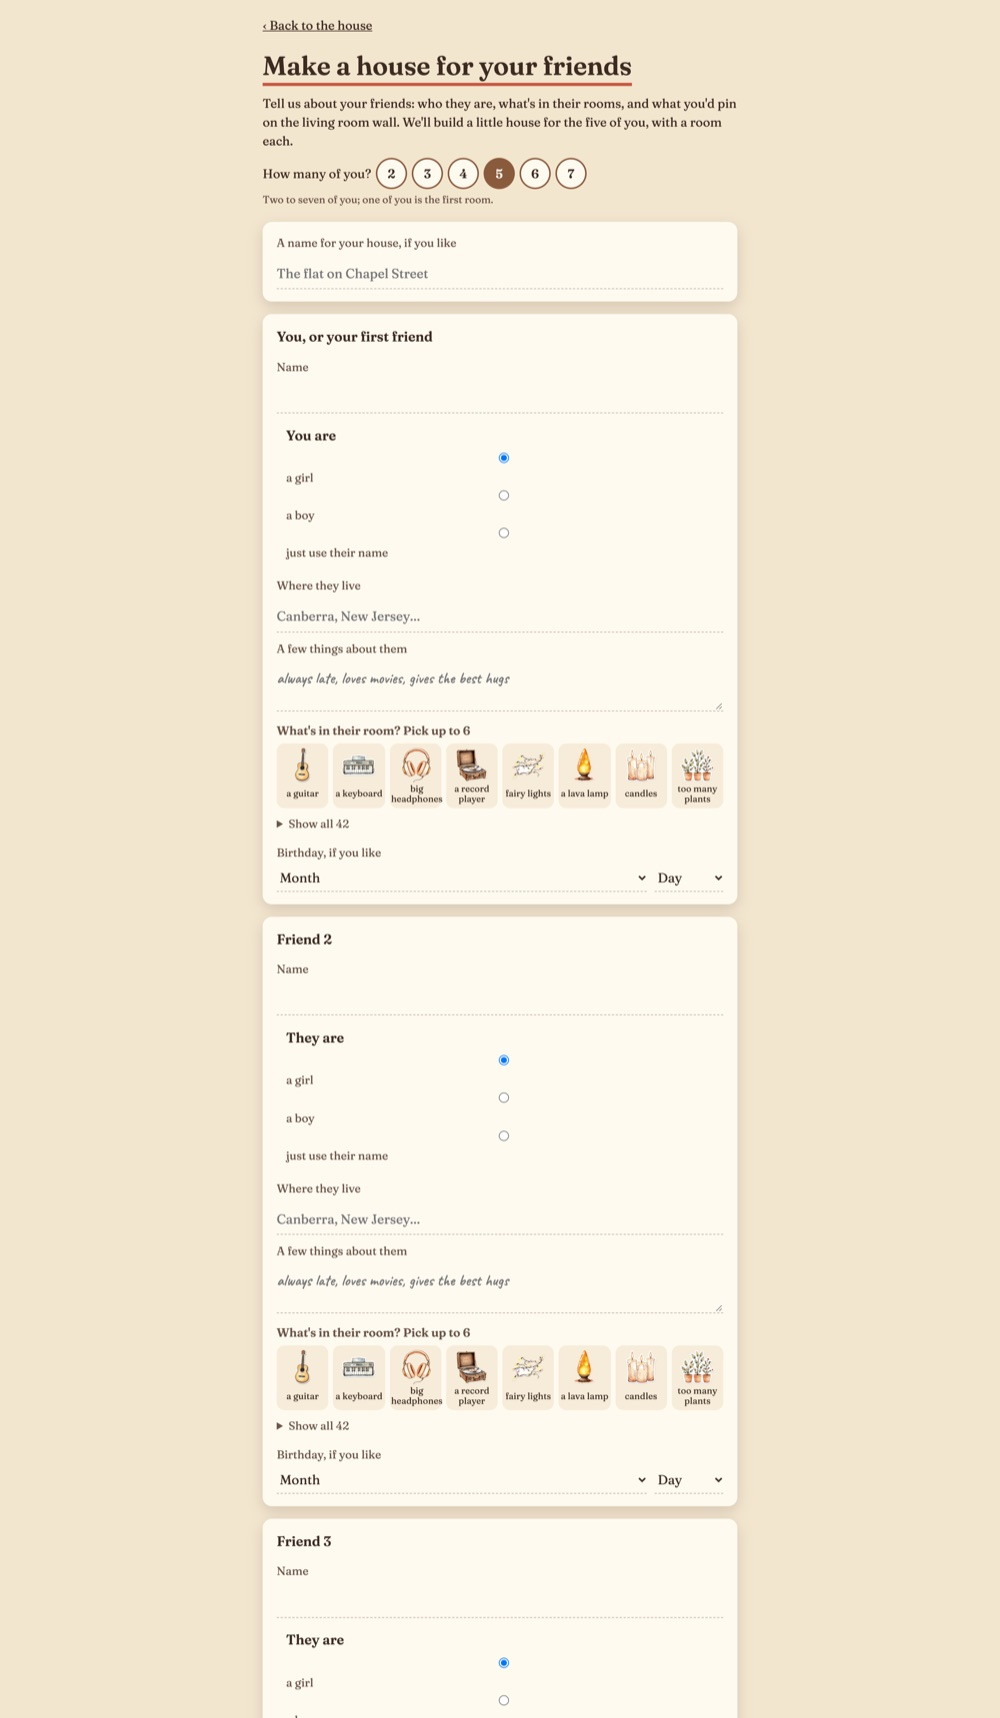
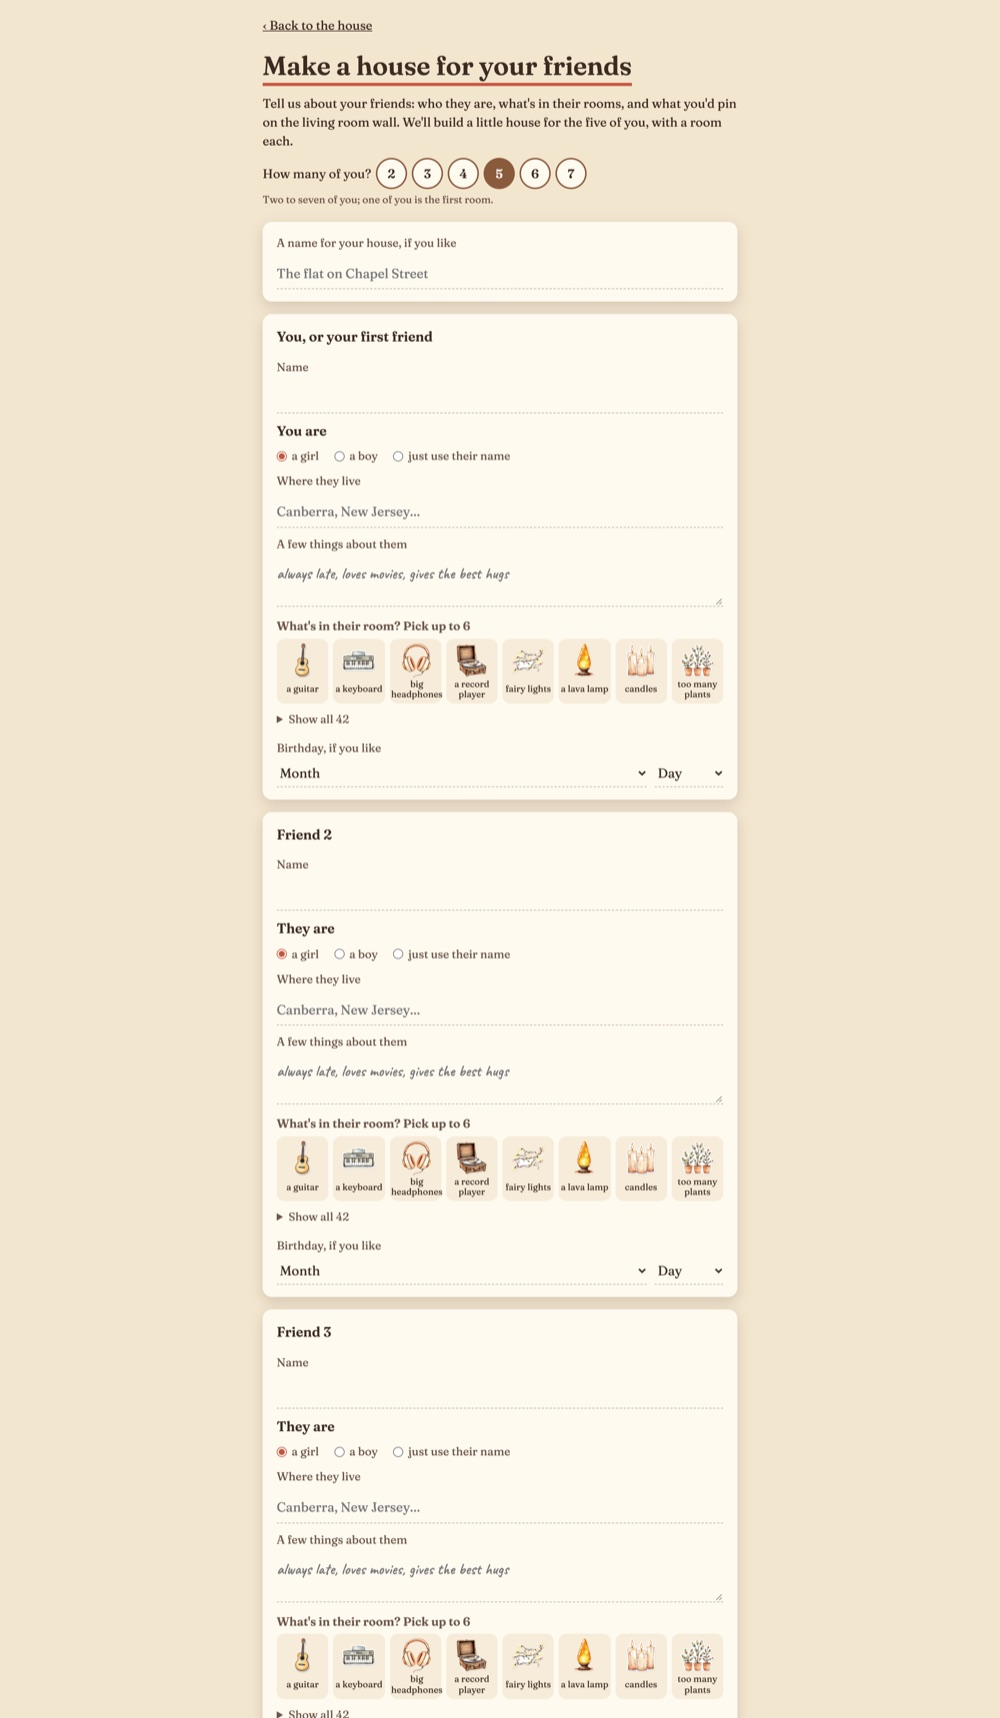
Keep the maker's "You are" choices beside their words
The full-width style for the maker's text inputs also stretched its
radio buttons, so each one floated mid-row on a line of its own, apart
from "a girl", "a boy" or "just use their name" (since 17c0351). They
now sit on one line, each beside its words, in the house's accent.

Changed region(s): [[0.248, 0.2468, 0.744, 1.0], [0.682, 0.6478, 0.713, 0.7095], [0.62, 0.6478, 0.651, 0.7095]]

diff --git a/public/style.css b/public/style.css
@@ -2684,6 +2684,29 @@ main.make {
   font-size: 1.05rem;
 }
 
+/* "You are / They are": the three choices on one line, each radio beside its
+   words (the full-width inputs above stretched them away from their labels). */
+.make-form .gender-pick {
+  display: flex;
+  flex-wrap: wrap;
+  gap: 4px 20px;
+  padding: 0;
+}
+
+.make-form .gender-pick label {
+  display: inline-flex;
+  align-items: center;
+  gap: 6px;
+}
+
+.make-form .gender-pick input {
+  width: auto;
+  margin: 0;
+  padding: 0;
+  border: 0;
+  accent-color: var(--accent);
+}
+
 .make-form input:focus,
 .make-form select:focus {
   outline: none;
